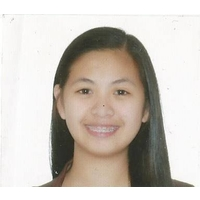
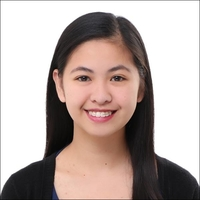
Added preliminary notes before starting a term in the course website. I also fixed the notes in midterms.

diff --git a/WebTech Finals/midterms.html b/WebTech Finals/midterms.html
@@ -36,7 +36,7 @@
 				<div class="navbar-collapse collapse">
 					<ul class="nav navbar-nav" data-0="margin-top:20px;" data-300="margin-top:5px;">
 						<li class="active"><a href="index.html">Home</a></li>
-						<li><a href="#section-about">About</a></li>
+						<li><a href="index.html#section-about">About</a></li>
 						<li><a href="prelims.html">Prelims</a></li>
                         <li><a href="midterms.html">Midterms</a></li>
 						<li><a href="finals.html">Finals</a></li>
@@ -45,7 +45,7 @@
 			</div>
 		</div>
         
-		<section id="parallax2" class="section parallax" data-stellar-background-ratio="0.5">	
+		<section id="parallax2" class="section parallax" data-stellar-background-ratio="0.8">	
         <div class="container">    
             <div class="align-center pad-top40 pad-bot40">
                 <blockquote class="bigquote color-white">Midterms</blockquote>
@@ -208,26 +208,50 @@
                                             <li>@page – formatting the page for printing</li>
                                         </ul>
                                     <div class="panes">
-                                        <h1>Selector Syntax</h1>
+                                        <h1>SELECTORS</h1>
+                                        <p>Selectors are used to find certain parts of the html which can then be used for the CSS Rule.</p>
+                                        
+                                        <h2>CSS Basic Selector</h2>
                                         <p>1 or more sequences of simple selectors separated by combinators with 1 pseudo-element possibly appended to the last sequence</p>
-                                        <h1>Type Selector (div, p ,ul, hl, body)</h1>
                                         <ul>
-                                            <li>Simple Selector</li>
-                                            <li>Universal selector (*) – matches everything</li>
-                                            <li>Attribute selector</li>
-                                            <li>Class selector</li>
-                                            <li>ID selector</li>
-                                            <li>Dynamic</li>
-                                            <li>Target</li>
-                                            <li>Language</li>
-                                            <li>UI Element States</li>
+                                            <li>Universal Selector - allows you to select and style any element type.</li>
+                                            <h3>Example: *{color:white}</h3>
+                                            <li>Element Selector - allows you to select and style a HTML element.</li>
+                                            <h3>Example: div{color:white}</h3>
+                                            <li>Id Selector - allows you to select and style the element with the specified id.</li>
+                                            <h3>Example: #Some_ID{color:white}</h3>
+                                            <li>Class Selector - allows you to select and style the elements with the specified class.</li>
+                                            <h3>Example: .Some_Class{color:white}</h3>
+                                            <li>Element specified selector - allows you to select and style only the elements associated with a specified class/id.</li>
+                                            <h3>Example: div.Some_Class{color:white}</h3>
                                         </ul>
-                                        <h1>Pseudo-Classes</h1>
+                                        <h2>Relational Selectors</h2>
                                         <ul>
-                                            <li>Target Pseudo-class</li>
-                                            <ul>
-                                                <li>:target</li>
-                                            </ul>
+                                            <li>Descendent selector - allows you to select and style all elements that are descendants of a specified element.</li>
+                                            <h3>Example: div h3{color:white}</h3>
+                                            <li>Child selector - allows you to select and style all elements that are direct descendants.</li>
+                                            <h3>Example: div>h2{color:white}</h3>
+                                            <li>Adjacent sibling selector - allows you to select and style the elements that is an immediate/ adjacent sibling.</li>
+                                            <h3>Example: p+span{color:white}</h3>
+                                            <li>General sibling selector - allows you to select and style the elements that are siblings no matter the arrangement.</li>
+                                            <h3>Example: h1~h3{color:white}</h3>
+                                        </ul>
+                                        <h2>Attribute Selectors</h2>
+                                        <ul>
+                                            <li>Attribute Selector - allows you to select and style an element with a specified attribute or attribute value</li>
+                                            <h3>Example: input[type="text"]{color:white}</h3>
+                                        </ul>
+                                        
+                                        <h2>Pseudo-Classes</h2>
+                                        <ul>
+                                            <li>Pseudo-class selector - allows you to select and style an element with a special state specified by a keyword</li>
+                                            <h3>Example: a:hover{color:white}</h3>
+                                            <li>nth-child selector - allows you to select and style an element that has an+b-1 siblings before it in the doc tree and has a parent element</li>
+                                            <h3>Example: a:nth-child(4n){color:white}</h3>
+                                        </ul>
+                                        
+                                        <h2>Lists of Pseudo-Classes</h2>
+                                        <ul>
                                             <li>Language Pseudo-class</li>
                                             <ul>
                                                 <li>:lang()</li>
@@ -242,36 +266,33 @@
                                             <li>Structural Pseudo-class</li>
                                             <ul>
                                                 <li>:root</li>
-                                                <li>::first-chid</li>
-                                                <li>::last-child</li>
-                                                <li>::only-child</li>
-                                                <li>::nth-child("any arithmetic values or "even"/"odd")</li>
-                                                <li>::nth-last-child()</li>
-                                                <li>::first-of-type</li>
-                                                <li>::last-of-type</li>
-                                                <li>::only-of-type</li>
-                                                <li>::nth-of-type()</li>
-                                                <li>::nth-last-of-type()</li>
+                                                <li>:first-chid</li>
+                                                <li>:last-child</li>
+                                                <li>:only-child</li>
+                                                <li>:nth-child("any arithmetic values or "even"/"odd")</li>
+                                                <li>:nth-last-child()</li>
+                                                <li>:first-of-type</li>
+                                                <li>:last-of-type</li>
+                                                <li>:only-of-type</li>
+                                                <li>:nth-of-type()</li>
+                                                <li>:nth-last-of-type()</li>
                                             </ul>
                                             <li>Negation Pseudo-class</li>
                                             <ul>
                                                 <li>:not()</li>
                                             </ul>
-                                            
+                                            <li>Pseudo-Elements</li>
+                                            <ul>
+                                                <li>::first-letter</li>
+                                                <li>::first-line</li>
+                                                <li>::before</li>
+                                                <li>::after</li>
+                                            </ul>
                                         </ul>
-                                        <h1>Combinators</h1>
-                                        <ul>
-                                            <li>Descendant combinators (whitespace, i, e, space, tab, line feed, carriage return, form feed)</li>
-                                            <li>Child combinators (&gt;) – direct descendant</li>
-                                            <li>Sibling combinators</li>
-                                        </ul>
-                                        <h1>Pseudo-Elements</h1>
-                                        <ul>
-                                            <li>:first-letter</li>
-                                            <li>:first-line</li>
-                                            <li>:before</li>
-                                            <li>:after</li>
-                                        </ul>
+                                        <br>
+                                        <h3>NOTE: Make sure to try out the different selectors in your editors to clearly understand how they function.</h3>
+                                        <br>    
+                                        <br>    
                                         <h1>Rule Precedence</h1>
                                         <p>1. By origin and importance</p>
                                         <ul>
@@ -408,7 +429,7 @@
                                         <li>p.addEventListener (‘click’, f1)</li>
                                         <li>p.removeEventListener (‘click, f1’)</li>
                                         <li>p.onclick = ‘’</li>
-                                    </ul>
+                                        </ul>
                                     </div>
                                     
                                     
@@ -454,18 +475,25 @@
                                                 <li>Array.prototype.reduce()</li>
                                             </ul>
                                         </ul>
-                                        <h3>Objects - a collection of properties associated by key-value pairs.</h3>
-                                        <h3>Different ways to instantiate an object</h3>
+                                        <h3>NOTE: Basing on from experience, you will most likely utilize ARRAYS and FUNCTIONS throughout any web development. They are very flexible and can be a simple/ straight solution for most problems. On some cases, objects are even inserted in an array.</h3>
+                                        <br>
+                                        <br>
+
+                                        <h1>Other JavaScript Core Objects</h1>
                                         <ul>
-                                            <li>Object constructor = new object [];</li>
-                                            <li>Literal syntax = new object({});</li>
-                                            <li>Literal syntax = new object(true); </li>
-                                            <li>Literal syntax = new object(10); </li>
-                                            <li>Literal syntax = new object(‘hi’); </li>
+                                                <li><a href="https://developer.mozilla.org/en-US/docs/Web/JavaScript/Reference/Global_Objects/Object">Object</a></li>
+                                                <li><a href="https://developer.mozilla.org/en-US/docs/Web/JavaScript/Reference/Global_Objects/Boolean">Boolean</a></li>
+                                                <li><a href="https://developer.mozilla.org/en-US/docs/Web/JavaScript/Reference/Global_Objects/Date">Date</a></li>
+                                                <li><a href="https://developer.mozilla.org/en-US/docs/Web/JavaScript/Reference/Global_Objects/Function">Function</a></li>
+                                                <li><a href="https://developer.mozilla.org/en-US/docs/Web/JavaScript/Reference/Global_Objects/Math">Math</a></li>
+                                                <li><a href="https://developer.mozilla.org/en-US/docs/Web/JavaScript/Reference/Global_Objects/Number">Number</a></li>
+                                                <li><a href="https://developer.mozilla.org/en-US/docs/Web/JavaScript/Reference/Global_Objects/RegExp">RegExp</a></li>
+                                                <li><a href="https://developer.mozilla.org/en-US/docs/Web/JavaScript/Reference/Global_Objects/String">String</a></li>
+                                                <li>Check out the others <a href="https://developer.mozilla.org/en-US/docs/Web/JavaScript/Reference/Global_Objects">here</a>.</li>
                                         </ul>
-                                    </div>
+                                    
                                     <br>
-                                    <h3>To learn more about JavaScript go to this website: <a href="https://www.w3schools.com/js/default.asp">JavaScript</a> </h3>
+                                    <h3>To learn more about JavaScript go to these website: <a href="https://www.w3schools.com/js/default.asp">JavaScript</a> and <a href="https://developer.mozilla.org/en-US/docs/Web/API/Document_Object_Model">Document Object Model</a></h3>
 								</article>
                                 </div>
 							</div>
@@ -481,6 +509,7 @@
 		<div class="container">
 			<div class="row align-center copyright">
 					<div class="col-sm-12"><p id=copyright>Copyright &copy; Amoeba</p>
+                        <p id=copyright>Contents by Saint Louis University</p>
                         <div class="credits">
                             <a href="https://bootstrapmade.com/">Bootstrap Themes</a> by <a href="https://bootstrapmade.com/">BootstrapMade</a>
                         </div>

diff --git a/WebTech Finals/index.html b/WebTech Finals/index.html
@@ -37,9 +37,9 @@
 					<ul class="nav navbar-nav" data-0="margin-top:20px;" data-300="margin-top:5px;">
 						<li class="active"><a href="index.html">Home</a></li>
 						<li><a href="#section-about">About</a></li>
-						<li><a href="prelims.html">Prelims</a></li>
-                        <li><a href="midterms.html">Midterms</a></li>
-						<li><a href="finals.html">Finals</a></li>
+						<li><a href="#parallax1">Prelims</a></li>
+                        <li><a href="#section-midterm">Midterms</a></li>
+						<li><a href="#parallax2">Finals</a></li>
 					</ul>
 				</div><!--/.navbar-collapse -->
 			</div>
@@ -74,7 +74,7 @@
                                         <h2>"The power of the Web is in its universality. Access by everyone regardless of disability is an essential aspect."</h2>
                                         <h5 id="quoted">- Tim Berners-Lee</h5>
                                     </div>
-                                    <div id="timberner">
+                                    <div>
                                         <figure id="timberner" class="member-photo"><img src = "img/timberner.png" alt="Father of the WWW"/></figure>
                                     </div>
         						</div>
@@ -95,7 +95,7 @@
 						<div class="section-header">
 							<h2 class="section-heading animated" data-animation="bounceInUp">The Course Website</h2>
 							<div class="description">
-                                <p>Our team created a course website that covers information about Web Technology. It provides information about the behaviour of the request-response protocol in the internet. The creation of the documents (web pages) in regards to structure, aesthetics, and behaviour that can be parsed and viewed by our browsers. Lastly, it provides information regarding server-side scripting that executes commands within the server and not on the client.</p>
+                                <p>Our team created a course website that covers information about Web Technology. It provides information about the behaviour of the request-response protocol in the internet. The creation of the documents (web pages) in regards to structure, aesthetics, and behaviour that can be parsed and viewed by our browsers. Lastly, it provides information regarding server-side scripting that executes commands within the server and not on the client. We are also going to tackle some Web Application Security information along the end of this course.</p>
                             </div>
 						</div>
 					</div>
@@ -121,7 +121,7 @@
 						</div>
 						<div class="col-md-3">
 							<div class="team-member">
-								<figure class="member-photo"><img src="img/team/member3.jpg" alt="" /></figure>
+								<figure class="member-photo"><img src="img/team/member3.png" alt="" /></figure>
 								<div class="team-detail">
 								<h4>Meljohn Guieb</h4>
 								</div>
@@ -129,7 +129,7 @@
 						</div>
 						<div class="col-md-3">
 							<div class="team-member">
-								<figure class="member-photo"><img src="img/team/member4.jpg" alt="" /></figure>
+								<figure class="member-photo"><img src="img/team/member4.png" alt="" /></figure>
 								<div class="team-detail">
 								<h4>Earvin Maganes</h4>
 								</div>
@@ -157,10 +157,52 @@
 		</section>
 		<!-- /about -->
         
+        <!-- spacer section:stats -->
+		<section id="parallax1" class="section pad-top40 pad-bot40 chptrdesc" data-stellar-background-ratio="0.8">
+			<div class="container">
+            <div class="align-center pad-top40 pad-bot40">
+                <blockquote class="bigquote color-white">Prelims</blockquote>
+				<p class="color-white chptrdesc ">
+                    How are transactions made in the World Wide Web? What is the difference between the Internet and World Wide Web? Learn how requests are made in the World Wide Web, how servers treat those request via sending a response, and some status codes that goes with it. Click <a href="prelims.html">here</a> to start Prelims.
+                </p>
+            </div>
+			</div>	
+		</section>
+        
+        <!-- Midterms -->
+        <section id="section-midterm" class="section appear clearfix">
+		<div class="container">
+
+				<div class="row mar-bot40">
+					<div class="col-md-offset-1 col-md-10">
+						<div class="section-header">
+							<h2 class="section-heading animated" data-animation="bounceInUp">Midterms</h2>
+							<div class="description">
+                                <p>Discover and learn the basic fundamentals of HTML, CSS, and JavaScript(Client-side Scripting). Learn how the structure of HTML works, how designs are made in certain webpages, and the behavioral content of it. Click <a href="midterms.html">here</a> to start Midterms.</p>
+                            </div>
+						</div>
+					</div>
+				</div>
+            </div>
+        </section>
+        
+        <!-- Finals -->
+        <section id="parallax2" class="section parallax" data-stellar-background-ratio="0.6">	
+        <div class="container">    
+            <div class="align-center pad-top40 pad-bot40">
+                <blockquote class="bigquote color-white">Finals</blockquote>
+				<p class="color-white propalignment chptrdesc">
+                    Learn how Server-side Scripting are capable of processing requests from clients. Discover some available programming languages which you can use to do SSS. Lastly, learn also Web Application Security to go with your soon to be web applications. Click <a href="finals.html">here</a> to start Finals.
+                </p>
+            </div>
+        </div>    
+		</section>
+        
 	<section id="footer" class="section footer">
 		<div class="container">
 			<div class="row align-center copyright">
 					<div class="col-sm-12"><p id=copyright>Copyright &copy; Amoeba</p>
+                        <p id=copyright>Contents by Saint Louis University</p>
                         <div class="credits">
                             <a href="https://bootstrapmade.com/">Bootstrap Themes</a> by <a href="https://bootstrapmade.com/">BootstrapMade</a>
                         </div>

diff --git a/WebTech Finals/css/style.css b/WebTech Finals/css/style.css
@@ -1088,6 +1088,7 @@ section .chptrdesc {
 
 #timbernerimg {
     float: left;
+    margin-bottom: 10%;
 }
 
 #quoted {
@@ -1096,7 +1097,7 @@ section .chptrdesc {
 
 .motivation {
     background-color: black;
-    height: 1.2% !important;
+    height: 10% !important;
 }
 
 /* ========================================
